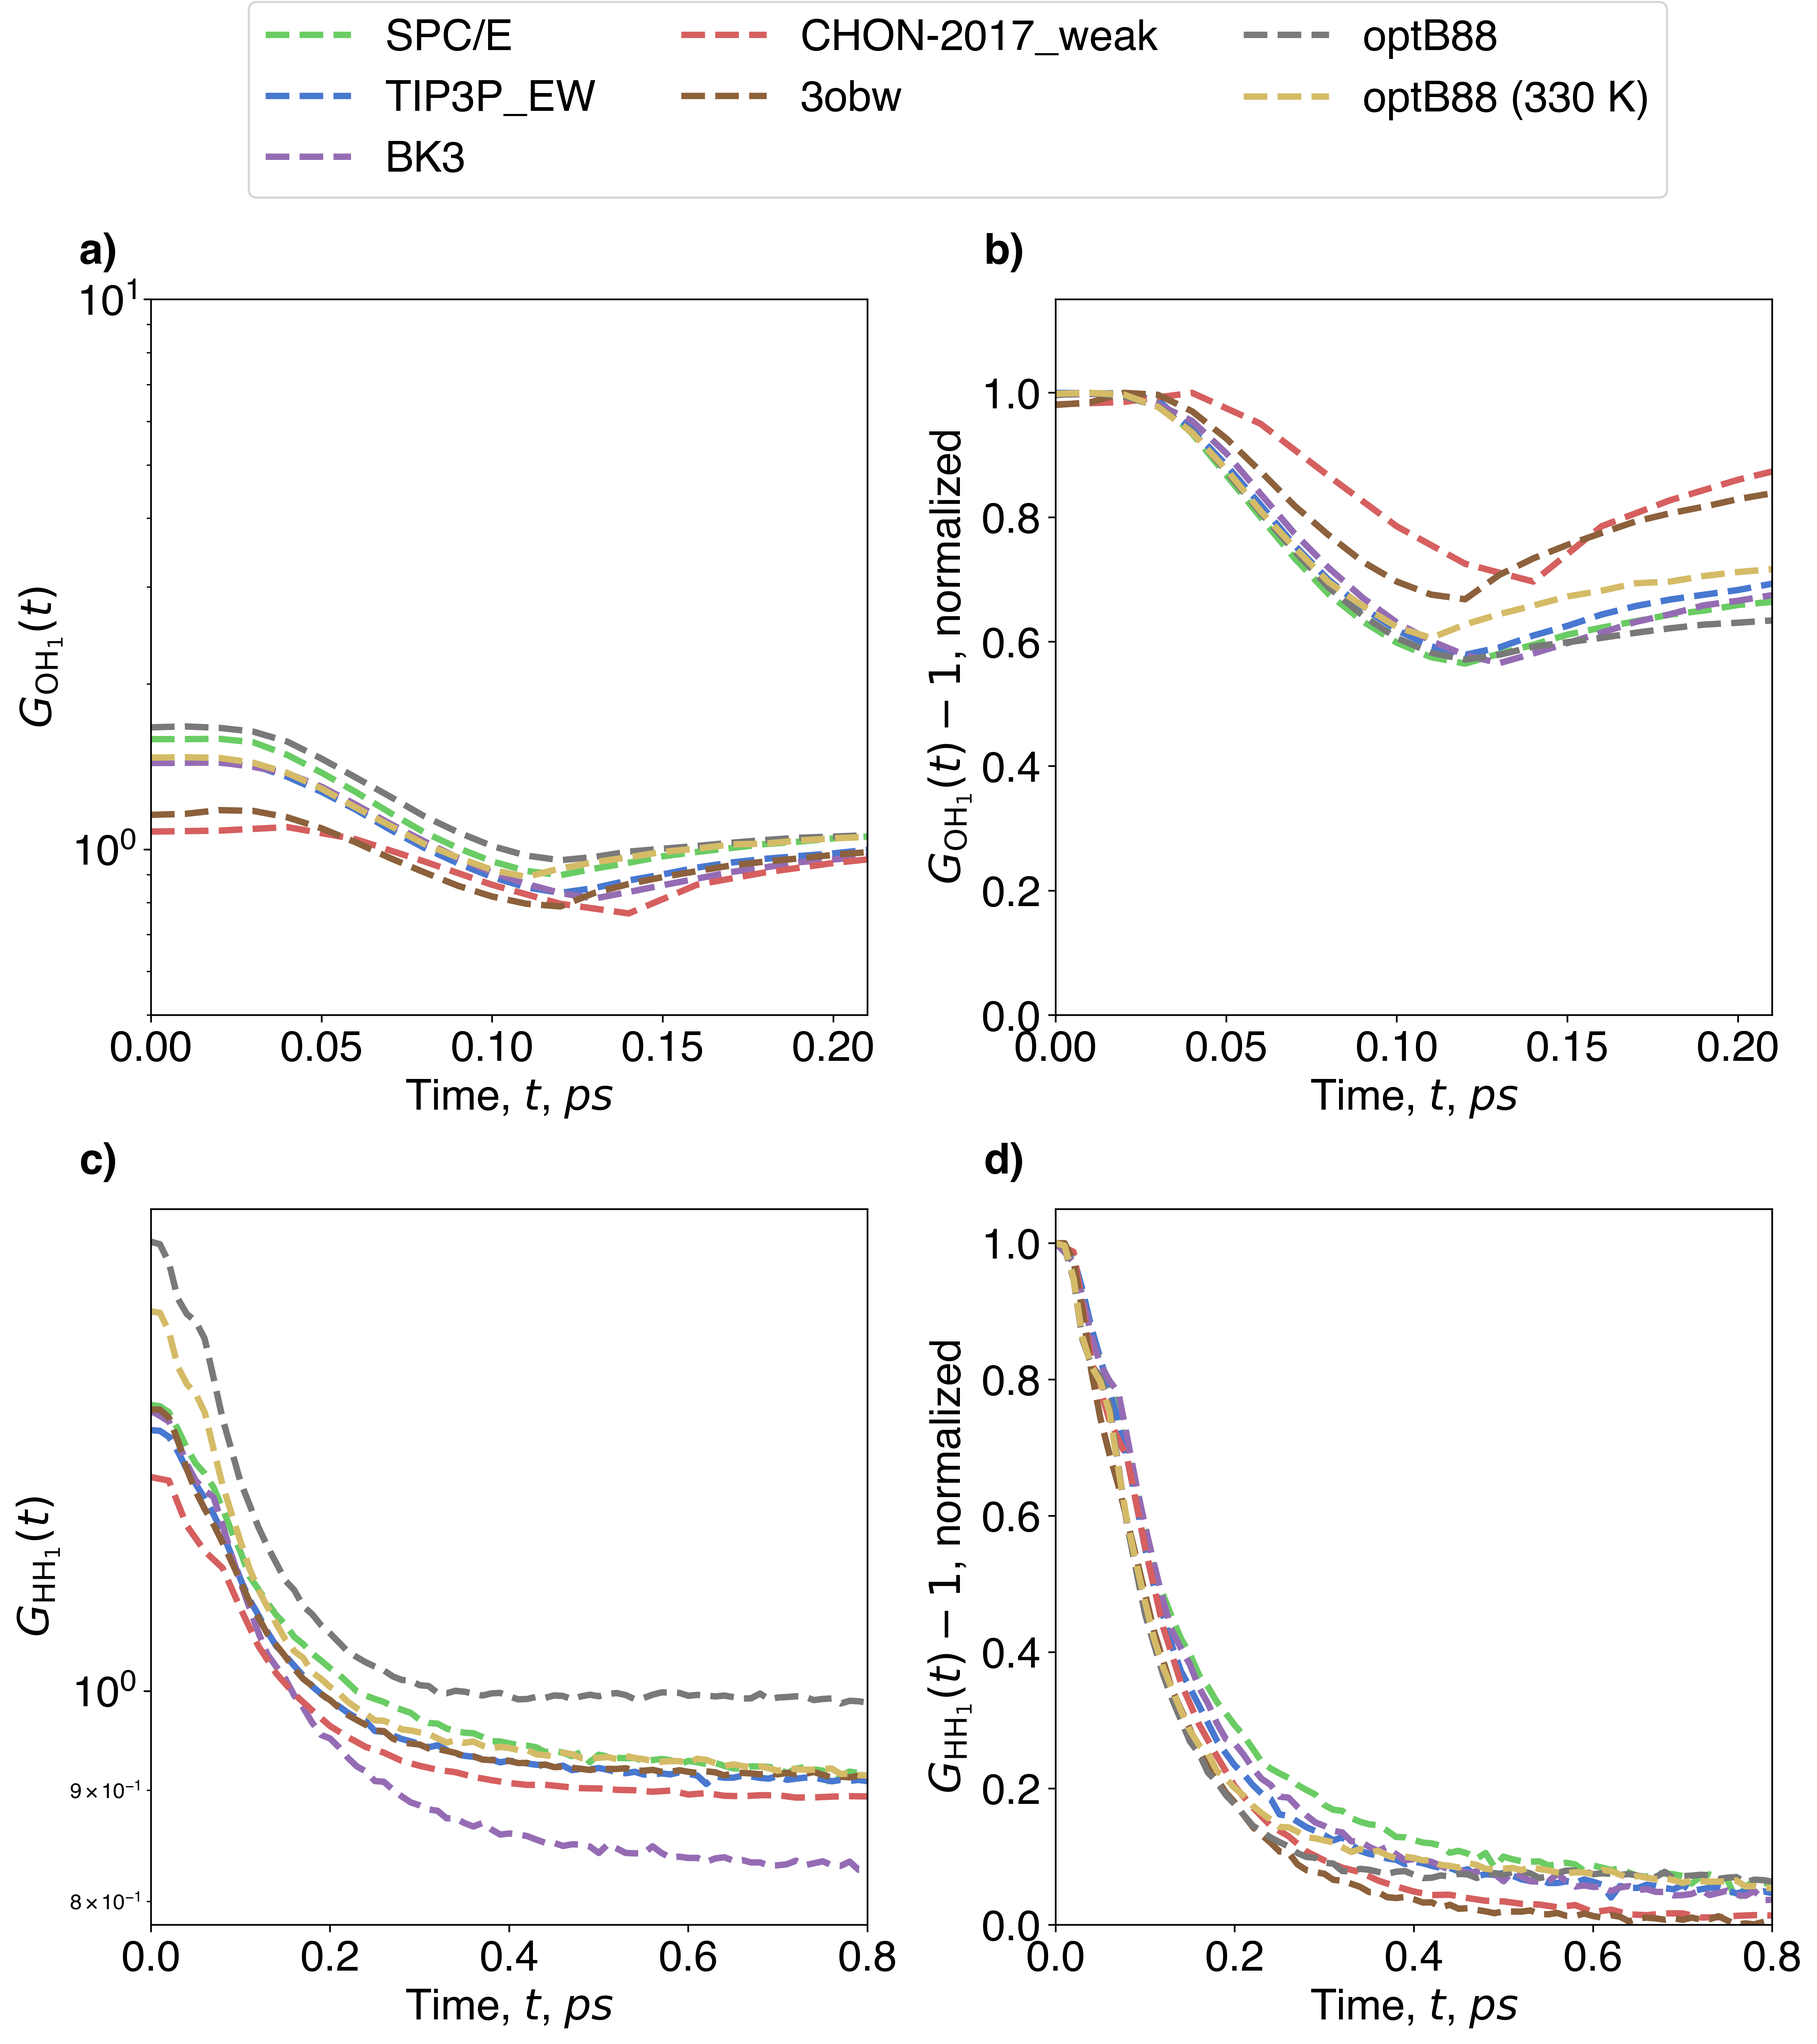
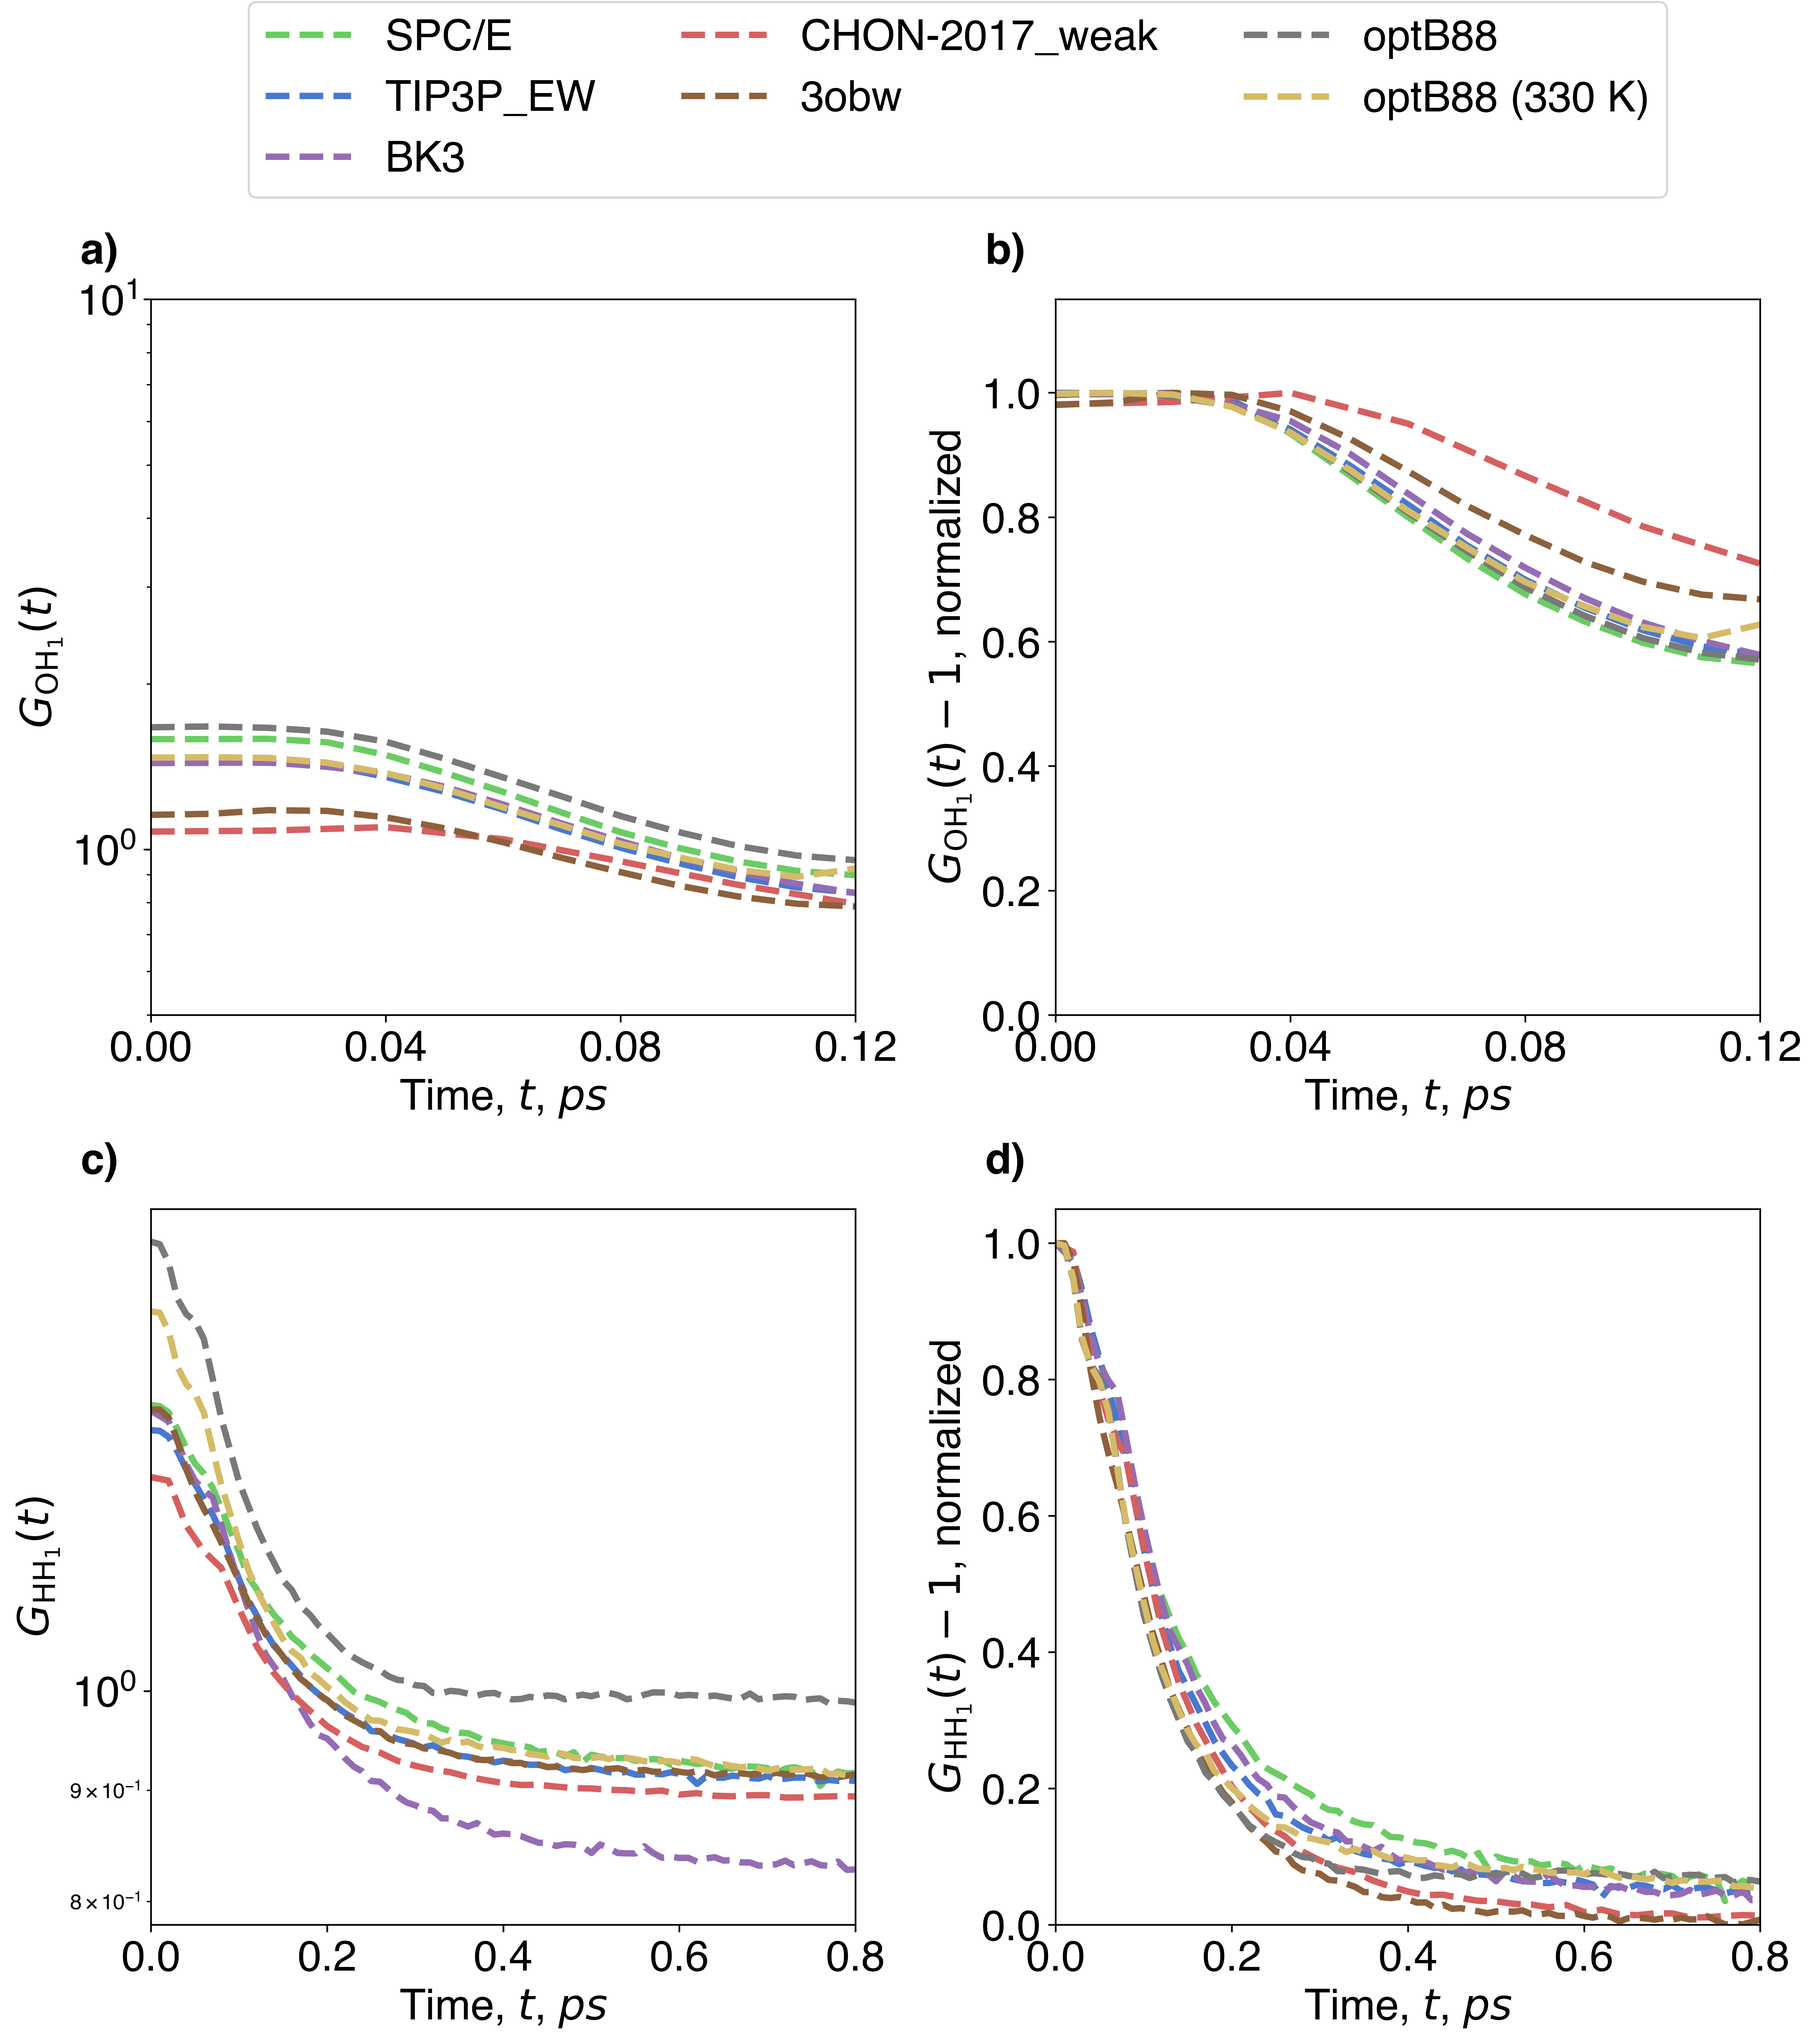
Change x-axis for OH peak decay

diff --git a/water_vhf_analysis/analysis/plot_partials.py b/water_vhf_analysis/analysis/plot_partials.py
@@ -141,7 +141,9 @@ def plot_peak_subplots(save=True):
             color=get_color(data["name"]),
         )
 
-    ax.set_xlim((0.00, 0.21))
+    #ax.set_xlim((0.00, 0.21))
+    ax.xaxis.set_major_locator(MultipleLocator(0.04))
+    ax.set_xlim((0.00, 0.12))
     ax.set_ylim(ylim)
     ax.set_ylabel(r"$G_{\mathrm{OH}_1}(t)$", fontsize=fontsize)
     ax.set_xlabel(r"Time, $t$, $ps$", fontsize=fontsize)
@@ -175,7 +177,9 @@ def plot_peak_subplots(save=True):
             color=get_color(data["name"]),
         )
 
-    ax.set_xlim((0.00, 0.21))
+    #ax.set_xlim((0.00, 0.21))
+    ax.xaxis.set_major_locator(MultipleLocator(0.04))
+    ax.set_xlim((0.00, 0.12))
     ax.set_ylim(ylim)
     ax.set_ylabel(r"$G_{\mathrm{OH}_1}(t)-1$, normalized", fontsize=fontsize)
     ax.set_xlabel(r"Time, $t$, $ps$", fontsize=fontsize)
